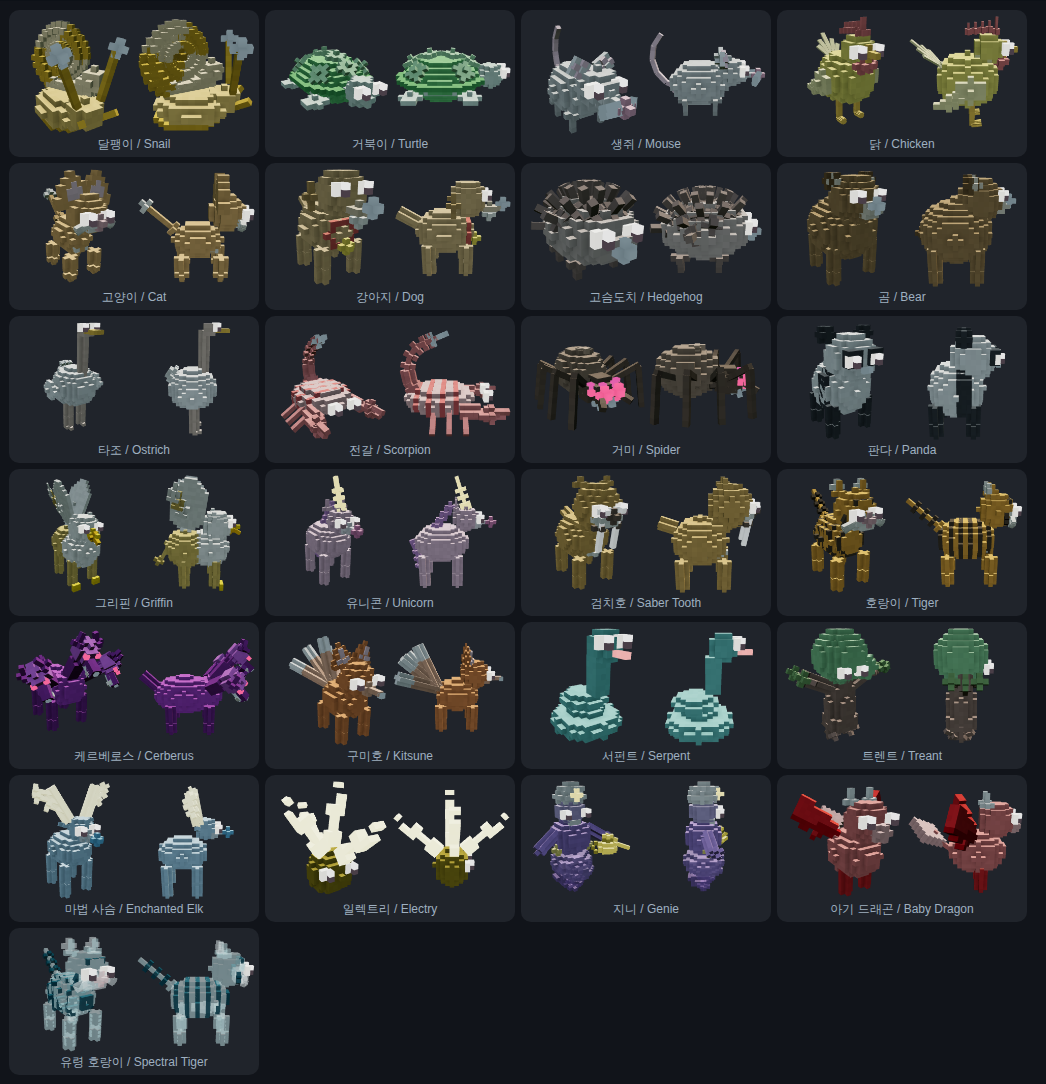
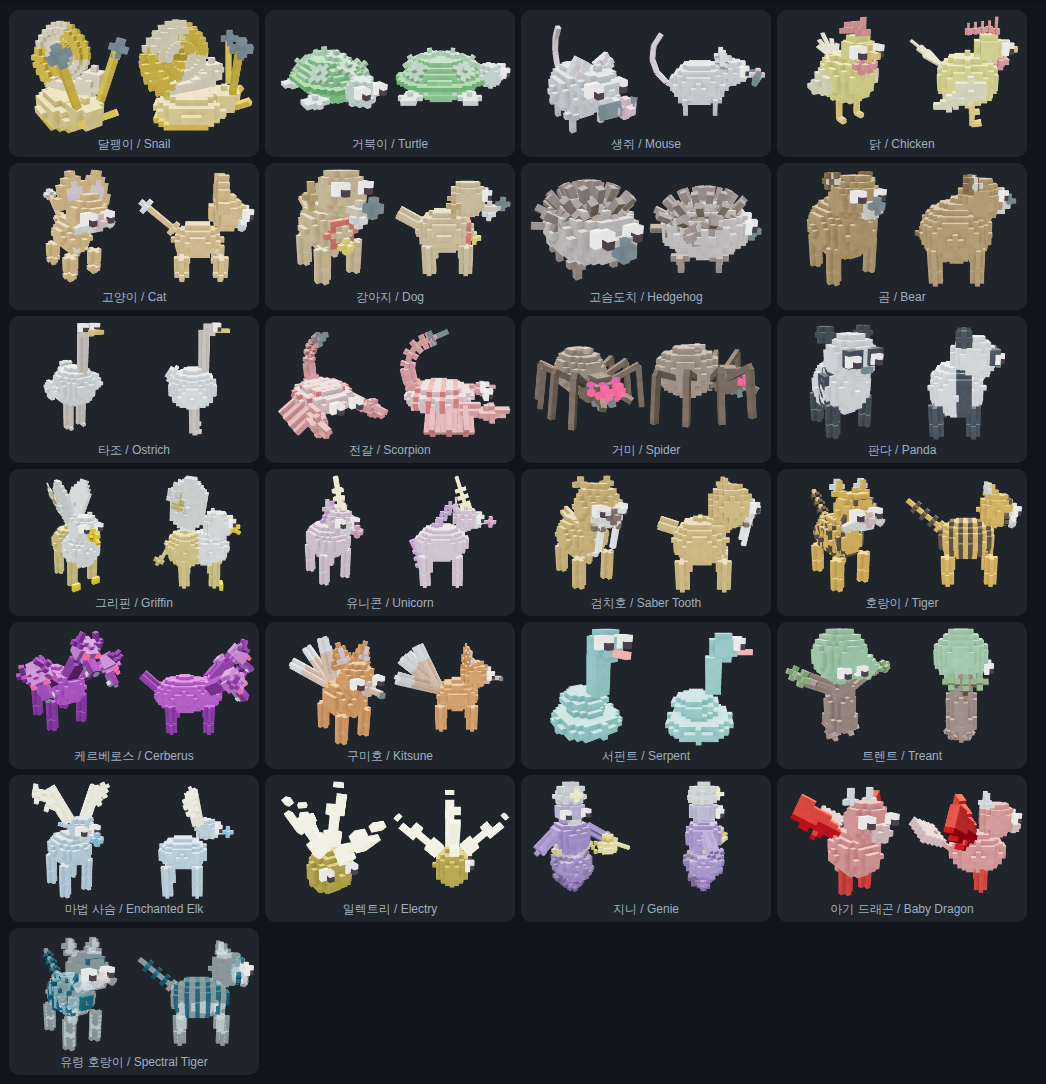
펫 전갈 다리 굵히기 + 일렉트리 코어 골드 볼로 — 청키 리버본드·몸통 판독
비평가 잔존 감점 두 종:
- 전갈: 여섯 다리 반지름 0.0126→0.019(거미와 같은 처방, 철사 죽마 → 블록 다리). '가는 죽마' 해소.
- 일렉트리: 코어색 어두운 청동 0x7a5a0c → 보이는 골드 볼 0x9a7016(매트, 발광 없음). 비평가가 '몸통 없이 흩어진 스파크'로 읽던 것에 **보이는 볼 몸통 + 얼굴** 을 줌 — 발광 1.15 갈래가 여전히 더 밝아 지그재그 실루엣 유지(옛 '둘 다 밝음' 실패 회피).
- 검증: probe-pet-thumbs ①②③④⑥⑦ PASS(일렉트리 색상각 55°vs54°·전갈 무채색 통과). ⑤ Serpent 선재 FAIL.

(pet-riverbond-remake)

diff --git a/web/js/scene3d.js b/web/js/scene3d.js
@@ -9669,7 +9669,7 @@ const Scene3D = {
                     });
                     jt(arm, 'y', 0.4 * s, s > 0 ? 0 : Math.PI, { f: 1.8 });   // 집게팔 벌렸다 오므렸다
                     for (let i = 0; i < 3; i++) {
-                        const leg = limb(s * 0.12, 0.1, -0.04 + i * 0.07, 0.11, 0.0126, 0.0102, dark);
+                        const leg = limb(s * 0.12, 0.1, -0.04 + i * 0.07, 0.11, 0.019, 0.015, dark);   // 다리 반지름 0.0126→0.019: 철사 → 블록(비평가 '가는 죽마')
                         leg.rotation.z = s * 1.0;
                         // ⚠ 다리가 z=±1.0 으로 눕혀져 있어 x 회전은 대부분 깊이축으로 사라진다(화면 ≤1.4px,
                         //    재오픈 원인). 화면에 보이는 건 z 성분 — 노 젓듯 위아래로 젓는 축을 같이 준다.
@@ -10153,7 +10153,10 @@ const Scene3D = {
                 //    → 코어를 **진짜로 어둡게**(emissive 제거, 청동빛) 내려 갈래만 튀게 한다.
                 //    ⚠ 색상은 노란 계열을 유지해야 한다 — `probe-pet-thumbs` ④ 가 몸색 hue(53°)와
                 //       40° 이내를 본다(파랑 전기색으로 틀면 그 게이트가 깨진다).
-                const CORE = M(0x7a5a0c);
+                // 코어를 어두운 청동(0x7a5a0c)에서 **보이는 골드 볼**(0x9a7016)로 한 단 올린다 — 비평가가
+                //   '몸통 없이 흩어진 스파크'로 읽은 건 코어가 배경에 묻혀서다. 발광은 안 넣으므로(매트 볼)
+                //   emissive 1.15 인 갈래가 여전히 더 밝아 지그재그는 그대로 튄다(옛 '둘 다 밝음' 실패 회피).
+                const CORE = M(0x9a7016);
                 const BOLT = M(0xfff27a, { emissive: 0xfff27a, emissiveIntensity: 1.15 });
                 sp(0.115, 0, 0.2, 0, CORE, 1, 1, 0.9);              // 어두운 청동 코어(갈래가 튀는 배경)
                 // 🚨 여기 있던 `sp(0.05, 0, 0.2, 0.02, BOLT)`('작은 백열 심')는 **반지름 0.05 가 코어
